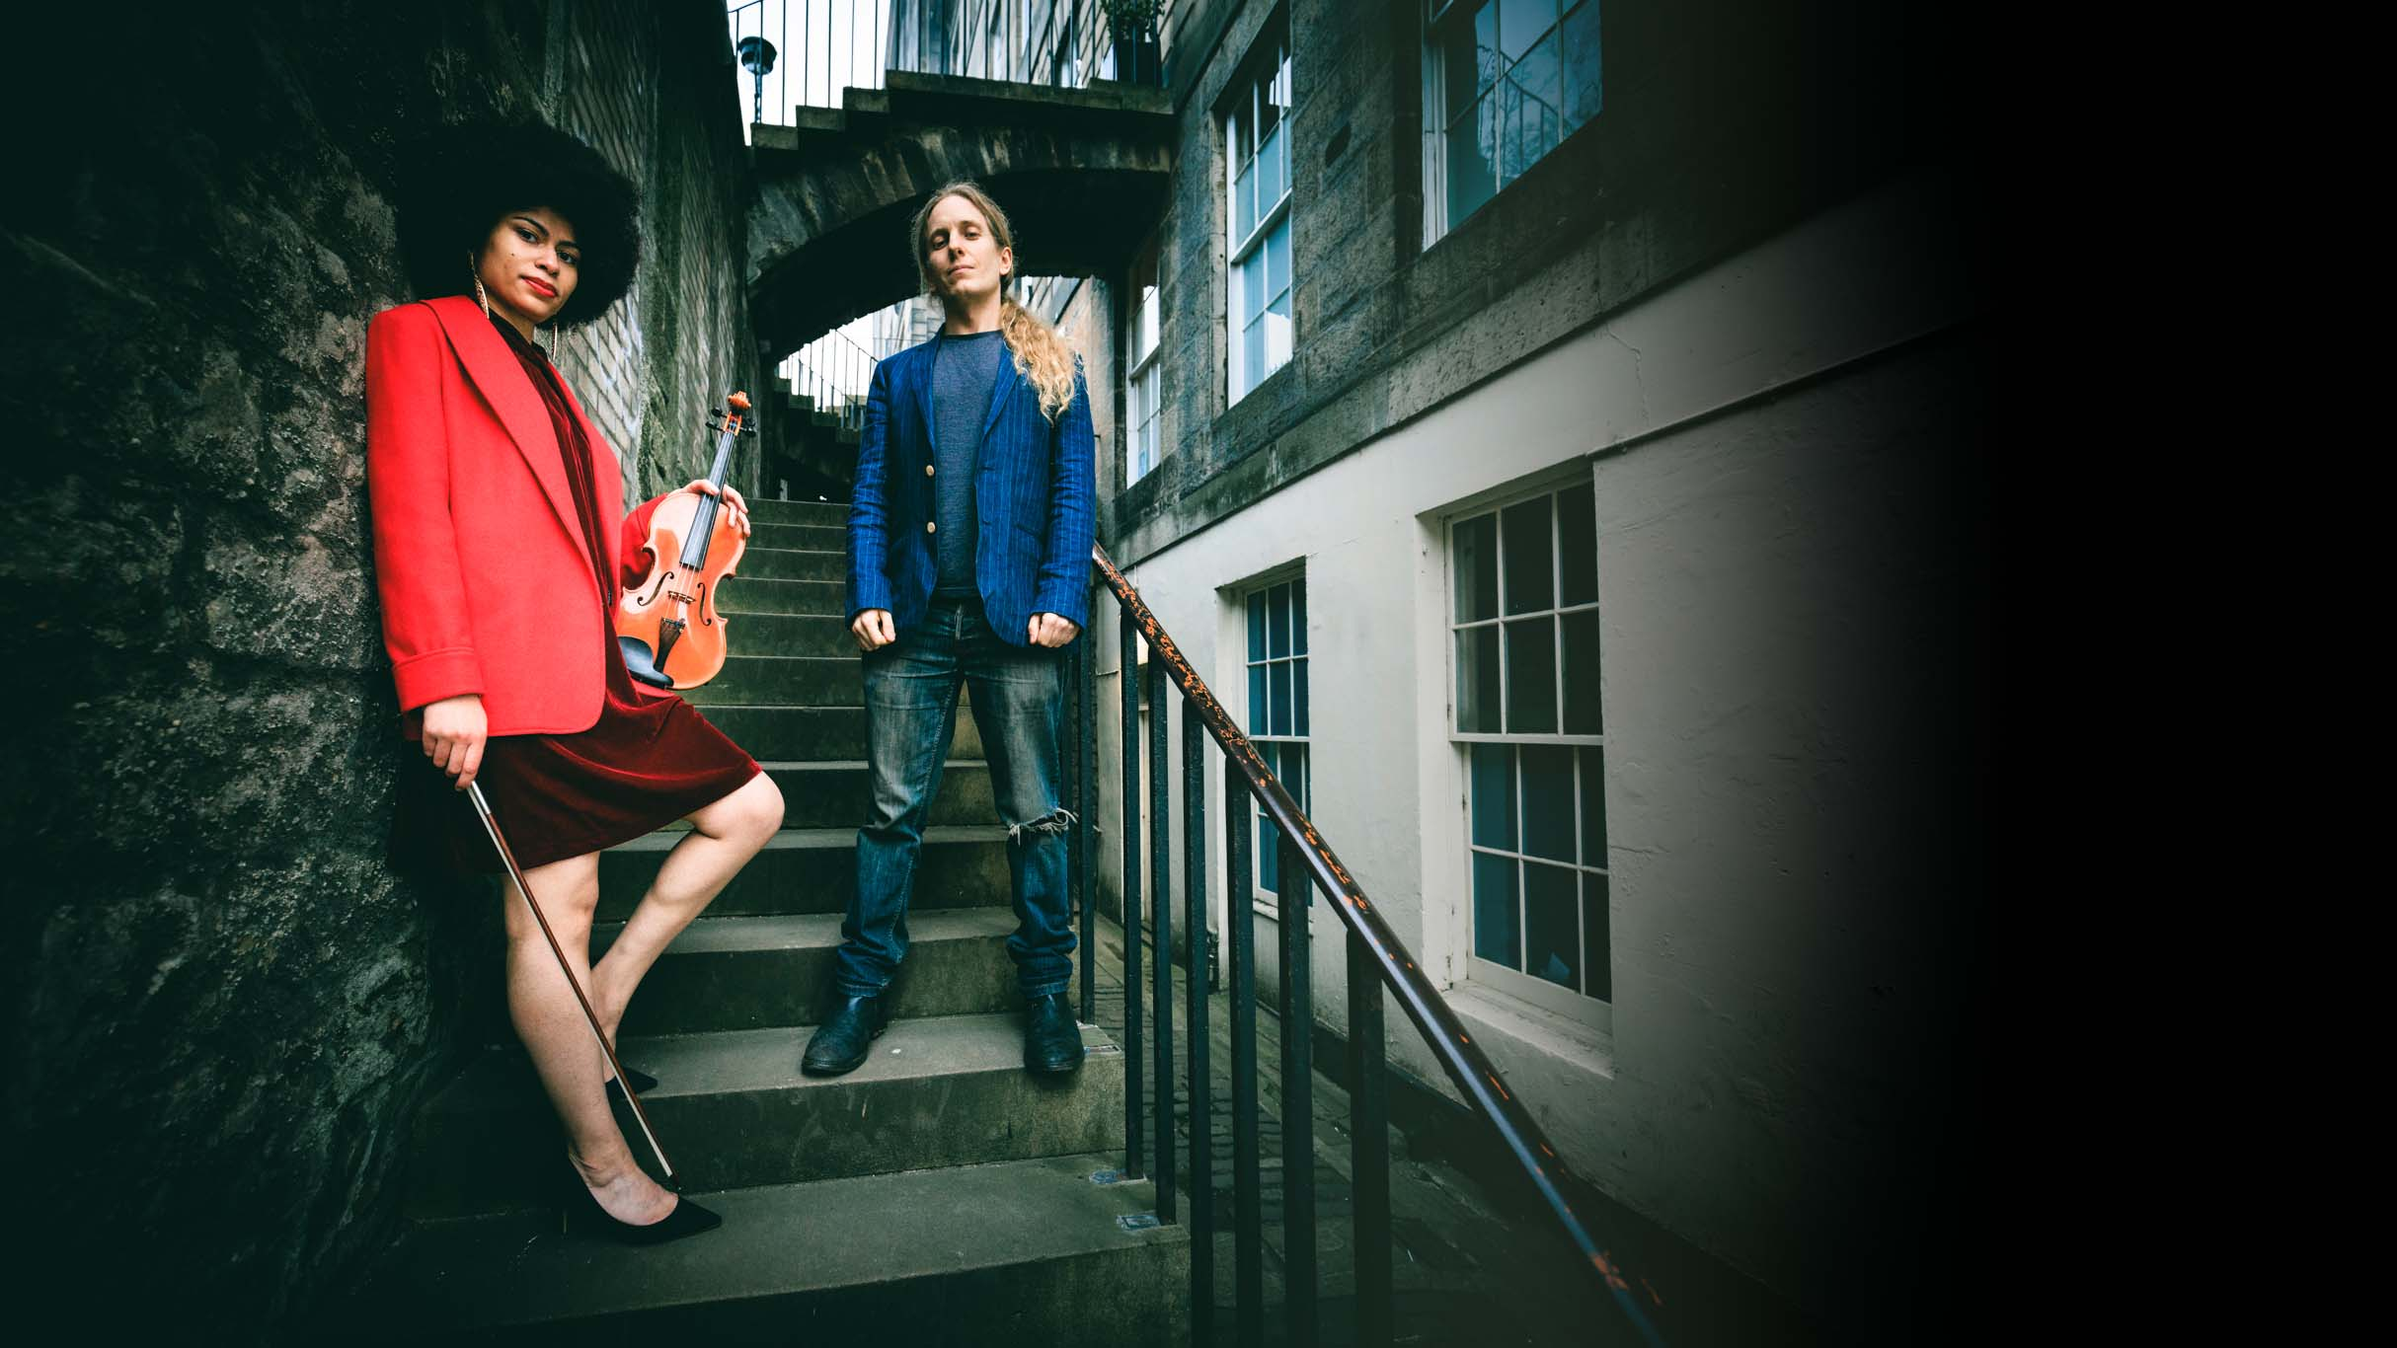
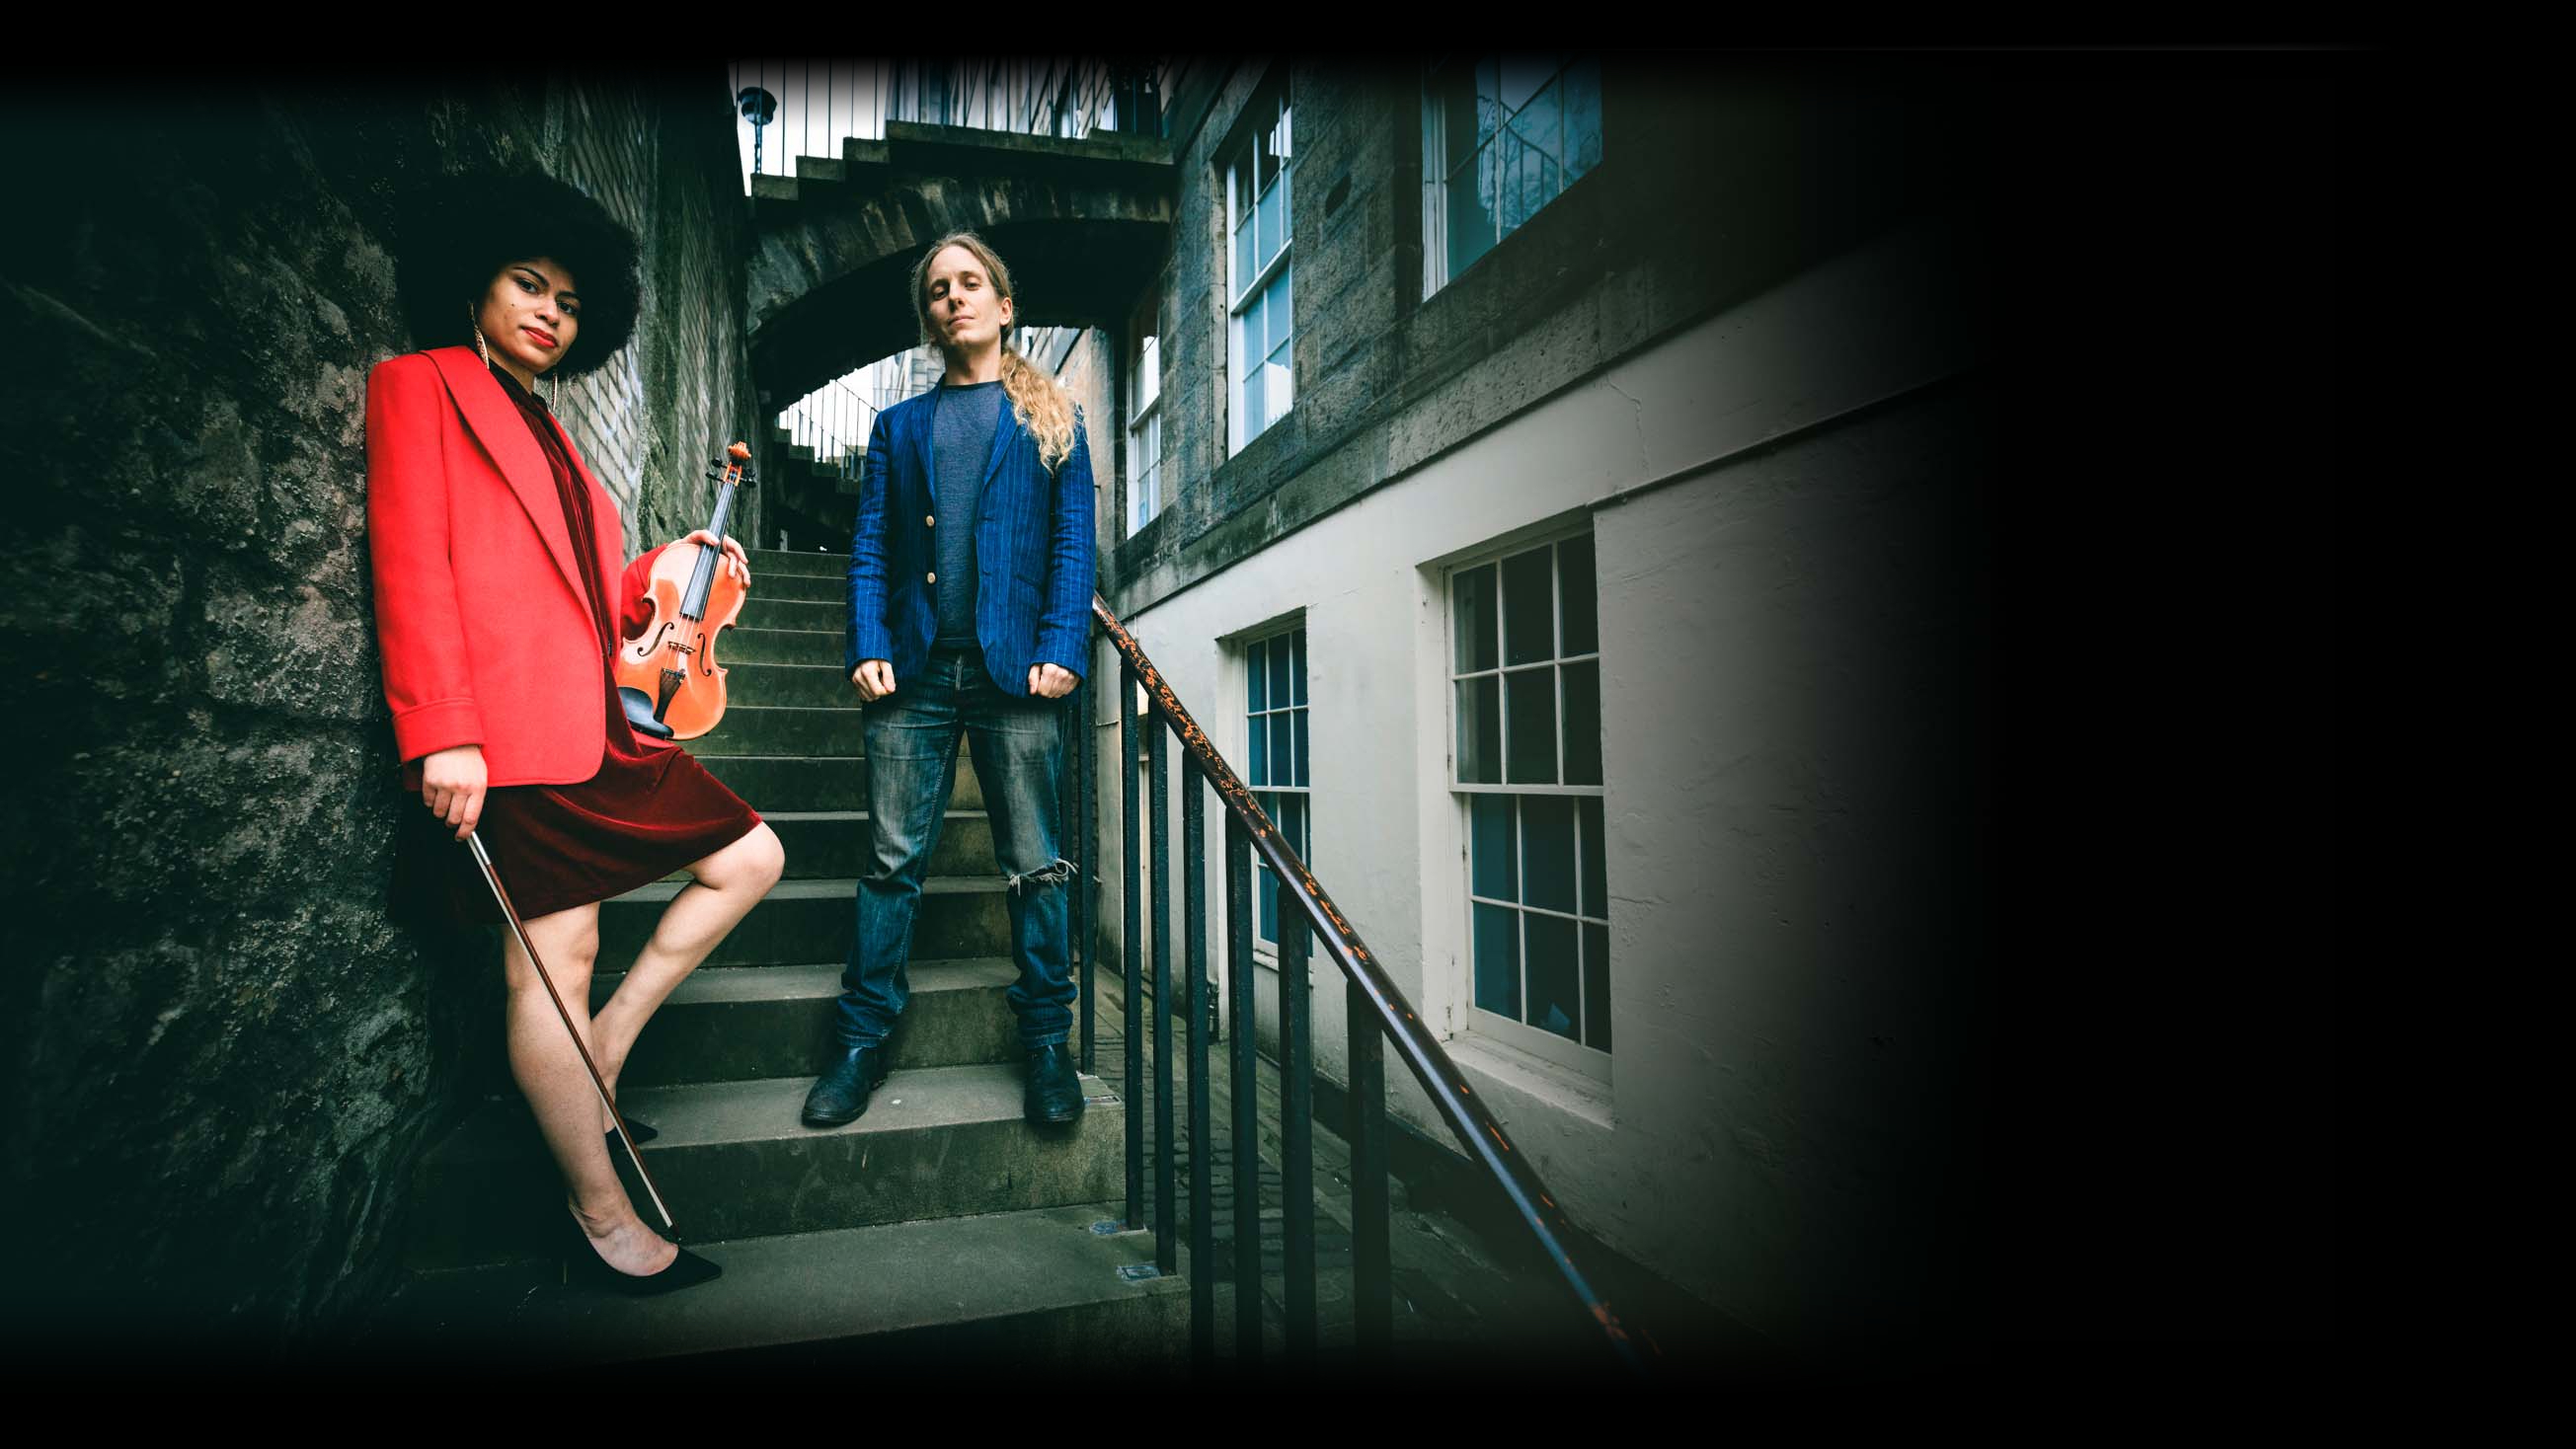
new

diff --git a/css/style.css b/css/style.css
@@ -146,16 +146,17 @@ video {
 }
 .element {
   padding: 0.5em;
-  height: 32em;
+  height: 33.5em;
   width: 23em;
   background-color: #d9d9d9;
   z-index: 1;
-  margin-top: -16em;
+  margin-top: -18em;
   box-shadow: rgba(0, 0, 0, 0.4) 0px 2px 4px;
 }
 .element img {
   max-width: 100%;
   max-height: 100%;
+
 }
 .element h2,
 p {
@@ -165,12 +166,14 @@ p {
 }
 
 .element h2 {
-  font-size: 2em;
+  font-size: 2.6em;
+  font-weight: 900;
+
 }
 
 .element p {
-  font-size: 1.6em;
-  font-weight: 500;
+  font-size: 2em;
+  font-weight: 600;
 }
 
 .element a {
@@ -224,7 +227,7 @@ p {
   flex-direction: column;
   justify-content: center;
   gap: 8vw;
-  height: 100vh;
+  height: 110vh;
   width: 65%;
 }
 
@@ -233,7 +236,7 @@ p {
   color: inherit; 
 }
 .text-box {
-  height: 24.5em;
+  height: 24em;
   width: 75em;
   background-color: #e3dfcbe3;
   color: #000000;
@@ -241,7 +244,7 @@ p {
 }
 
 .text-box p {
-  font-size: 2.0em;
+  font-size: 2.05em;
   text-align: justify;
 }
 
@@ -303,7 +306,7 @@ p {
 .artist-box p {
   background-color: #e3dfcbe3;
   padding: 1em;
-  font-size: 2.6em;
+  font-size: 2.4em;
   box-shadow: rgba(0, 0, 0, 0.4) 0px 2px 4px;
 }
 
@@ -323,41 +326,47 @@ p {
   background-repeat: no-repeat;
   background-position: right;
   background-size: cover;
-  min-height: 100vh;
+height: 100vh;
   position: relative;
   display: flex;
   flex-direction: column;
   justify-content: center;
   align-items: center;
-  padding-right: 40vw;
-  gap: 2em;
 }
 
-.contacts-bg h1 {
+.contacts-icons-wrapper h1 {
   padding: 0;
-  margin-top: 0.8em;
-  margin-bottom: 0.4em;
   font-size: 2.5rem;
   color: white;
   text-align: center;
   text-shadow: rgba(0, 0, 0, 0.4) 0px 2px 4px;
 }
 
-.contacts-wrapper p {
-  color: white;
-  font-size: 2.5em;
+.contacts-icons-wrapper p {
+  color: rgb(0, 0, 0);
+  font-size: 3em;
 }
 
-.contacts-wrapper {
-  text-align: center;
-  margin-top: 1.3em;
+.contacts-icons-wrapper {
+  display: flex;
+  flex-direction: column;
+justify-content: space-between; 
+ text-align: center;
 }
 
-.social-icons-contacts {
-  align-items: center;
-  justify-content: center;
-  font-size: 6em;
-  color: white;
+.contacts-flex{
+  display: flex;
+  justify-content: space-between;
+  width: 80%;
+  height: 100vh;
+  flex-direction: row;
+  padding: 10em;
+}
+
+.icons {
+  font-size: 5em;
+  color: rgb(0, 0, 0);
+
 }
 
 .social-icons-contacts i {
@@ -414,7 +423,7 @@ p {
 }
 
 .video-selector img:hover {
-  outline: 2px solid rgb(0, 0, 0);
+  outline: 2px solid #bdb58baf;
 }
 
 .image-gallery {

diff --git a/index.html b/index.html
@@ -158,8 +158,7 @@
       </div>
     </div>
     <div class="contacts-bg" id="contacts-bg">
-      <h1>Contacts</h1>
-
+<div class="contacts-flex">
       <div
         class="fb-page"
         data-href="https://www.facebook.com/profile.php?id=100083002591260"
@@ -179,14 +178,20 @@
         </blockquote>
       </div>
 
-      <div class="contacts-wrapper">
-        <p>You can contact us via email or on our socials:</p>
-      </div>
+      <div class="contacts-icons-wrapper">
+              <h1>Contacts</h1>
+
       <div class="social-icons-contacts">
+        <p>You can contact us via email or on our socials:</p>
+        <div class="icons">
         <i class="fa-brands fa-instagram"></i>
         <i class="fa-brands fa-facebook"></i>
         <i class="fa-regular fa-envelope"></i>
       </div>
+      </div>
+    </div>
+    </div>
+
     </div>
 
     <div class="gallery" id="gallery">
